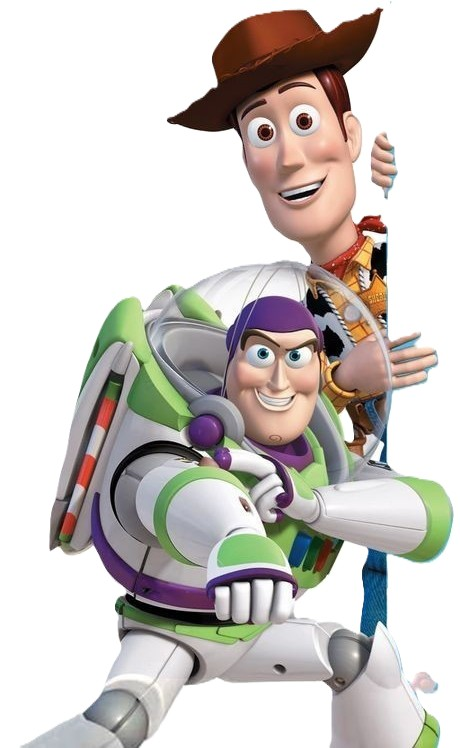
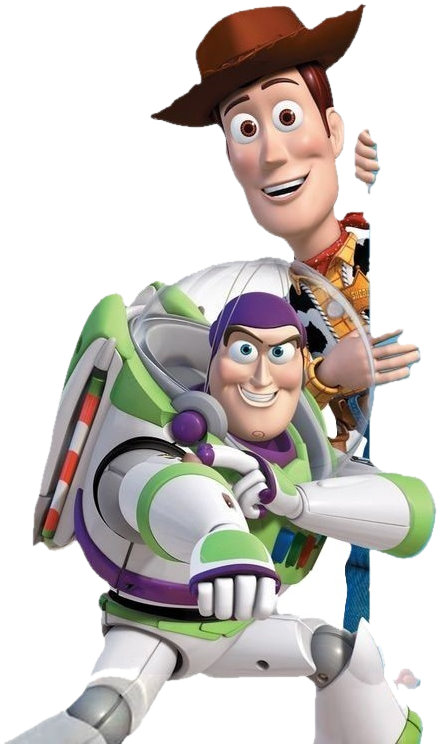
Ajusta artes do convite: Woody e Buzz sem fundo, base sem corte e sem bordao final

diff --git a/convite-animado.html b/convite-animado.html
@@ -22,7 +22,7 @@
   <link rel="preconnect" href="https://fonts.googleapis.com" />
   <link rel="preconnect" href="https://fonts.gstatic.com" crossorigin />
   <link href="https://fonts.googleapis.com/css2?family=Baloo+2:wght@500;600;700;800&family=Nunito:wght@600;700;800;900&display=swap" rel="stylesheet" />
-  <link rel="stylesheet" href="assets/convite-animado.css?v=20261117c" />
+  <link rel="stylesheet" href="assets/convite-animado.css?v=20261118a" />
 </head>
 <body>
   <a class="skip-link" href="#finalInvite">Pular para o convite</a>
@@ -105,56 +105,56 @@
       </section>
 
       <section class="final-invite" id="finalInvite" tabindex="-1" aria-label="Convite do aniversário do Ben">
-        <img class="peek-duo-art" src="assets/convite/woody-buzz-espiando.png?v=20261116" alt="" aria-hidden="true" />
-        <div class="invite-card">
-          <span class="tape tape-left" aria-hidden="true"></span>
-          <span class="tape tape-right" aria-hidden="true"></span>
+        <div class="card-stage">
+          <img class="peek-duo-art" src="assets/convite/woody-buzz-espiando.png?v=20261118a" alt="" aria-hidden="true" />
+          <div class="invite-card">
+            <span class="tape tape-left" aria-hidden="true"></span>
+            <span class="tape tape-right" aria-hidden="true"></span>
 
-          <header class="invite-heading">
-            <div class="ben-story-logo card-logo" role="img" aria-label="Ben Story">
-              <span class="ben-word">BEN</span>
-              <span class="story-word">STORY</span>
+            <header class="invite-heading">
+              <div class="ben-story-logo card-logo" role="img" aria-label="Ben Story">
+                <span class="ben-word">BEN</span>
+                <span class="story-word">STORY</span>
+              </div>
+              <p>Você foi escolhido para esta missão!</p>
+              <h2>
+                <span class="name-blocks" id="animatedNameBlocks" role="img" aria-label="Ben">
+                  <span>B</span><span>E</span><span>N</span>
+                </span>
+                <span class="age-copy" id="animatedAgeCopy">faz <strong id="animatedAge">5</strong> anos!</span>
+              </h2>
+            </header>
+
+            <p class="invite-message">Venha brincar, sorrir e viver uma aventura inesquecível com a gente.</p>
+
+            <div class="event-details">
+              <div id="animatedDate"><span aria-hidden="true">📅</span><strong id="animatedDateText">09 de janeiro de 2027</strong><small id="animatedWeekday">Sábado</small></div>
+              <div id="animatedTime"><span aria-hidden="true">🕕</span><strong id="animatedTimeText">18h</strong><small>Hora da missão</small></div>
+              <div class="location" id="animatedLocation"><span aria-hidden="true">📍</span><strong id="animatedLocationName">Enjoy Kids</strong><small id="animatedLocationDetail">Liv Mall Shopping</small></div>
             </div>
-            <p>Você foi escolhido para esta missão!</p>
-            <h2>
-              <span class="name-blocks" id="animatedNameBlocks" role="img" aria-label="Ben">
-                <span>B</span><span>E</span><span>N</span>
-              </span>
-              <span class="age-copy" id="animatedAgeCopy">faz <strong id="animatedAge">5</strong> anos!</span>
-            </h2>
-          </header>
 
-          <p class="buzz-quote"><span aria-hidden="true">🚀</span> “Ao infinito e além!”</p>
+            <section class="gift-guide" aria-labelledby="giftTitle">
+              <div class="gift-title"><span aria-hidden="true">🎁</span><strong id="giftTitle">Diquinha de presente</strong></div>
+              <div class="gift-options">
+                <span><small>Roupa</small><b>6 anos</b></span>
+                <span><small>Calçado</small><b>27</b></span>
+                <span class="gift-theme"><small>Ele vai amar</small><b>Tudo do universo Toy Story</b></span>
+              </div>
+            </section>
 
-          <p class="invite-message">Venha brincar, sorrir e viver uma aventura inesquecível com a gente.</p>
+            <a class="confirm-button" id="confirmButton" href="convite.html?music=1">
+              <span>Confirmar presença</span>
+              <span aria-hidden="true">→</span>
+            </a>
+            <p class="confirm-note">Clique no botão para encontrar seu nome e responder.</p>
 
-          <div class="event-details">
-            <div id="animatedDate"><span aria-hidden="true">📅</span><strong id="animatedDateText">09 de janeiro de 2027</strong><small id="animatedWeekday">Sábado</small></div>
-            <div id="animatedTime"><span aria-hidden="true">🕕</span><strong id="animatedTimeText">18h</strong><small>Hora da missão</small></div>
-            <div class="location" id="animatedLocation"><span aria-hidden="true">📍</span><strong id="animatedLocationName">Enjoy Kids</strong><small id="animatedLocationDetail">Liv Mall Shopping</small></div>
-          </div>
-
-          <section class="gift-guide" aria-labelledby="giftTitle">
-            <div class="gift-title"><span aria-hidden="true">🎁</span><strong id="giftTitle">Diquinha de presente</strong></div>
-            <div class="gift-options">
-              <span><small>Roupa</small><b>6 anos</b></span>
-              <span><small>Calçado</small><b>27</b></span>
-              <span class="gift-theme"><small>Ele vai amar</small><b>Tudo do universo Toy Story</b></span>
+            <div class="base-cast-art" aria-hidden="true">
+              <img src="assets/convite/personagens-base.png?v=20261118a" alt="" />
             </div>
-          </section>
-
-          <a class="confirm-button" id="confirmButton" href="convite.html?music=1">
-            <span>Confirmar presença</span>
-            <span aria-hidden="true">→</span>
-          </a>
-          <p class="confirm-note">Clique no botão para encontrar seu nome e responder.</p>
-
-          <div class="base-cast-art" aria-hidden="true">
-            <img src="assets/convite/personagens-base.png?v=20261116" alt="" />
+            <span class="card-star star-a" aria-hidden="true">★</span>
+            <span class="card-star star-b" aria-hidden="true">★</span>
+            <span class="card-star star-c" aria-hidden="true">✦</span>
           </div>
-          <span class="card-star star-a" aria-hidden="true">★</span>
-          <span class="card-star star-b" aria-hidden="true">★</span>
-          <span class="card-star star-c" aria-hidden="true">✦</span>
         </div>
       </section>
     </main>

diff --git a/assets/convite-animado.css b/assets/convite-animado.css
@@ -394,11 +394,17 @@ button { color: inherit; }
 .is-final .final-invite { opacity: 1; visibility: visible; pointer-events: auto; }
 .is-final .envelope-scene { opacity: 0; }
 
-.invite-card {
+.card-stage {
   position: relative;
   width: min(100%, 660px);
+  --base-art-space: clamp(130px, calc(41.5vw + 8px), 290px);
+}
+
+.invite-card {
+  position: relative;
+  width: 100%;
   min-height: 910px;
-  padding: clamp(24px, 5vh, 45px) clamp(21px, 5vw, 48px) 235px;
+  padding: clamp(24px, 5vh, 45px) clamp(21px, 5vw, 48px) var(--base-art-space);
   border: 3px solid rgba(255,255,255,.9);
   border-radius: 12px;
   text-align: center;
@@ -415,13 +421,13 @@ button { color: inherit; }
 .peek-duo-art {
   position: absolute;
   z-index: 3;
-  top: 150px;
-  right: calc(50% + 252px);
+  top: auto;
+  right: 100%;
+  bottom: calc(var(--base-art-space) - 4px);
   left: auto;
-  width: 270px;
+  width: min(270px, calc(50vw - 340px));
   height: auto;
   opacity: 0;
-  mix-blend-mode: multiply;
   filter: drop-shadow(0 16px 12px rgba(27, 73, 100, .2));
   transform: translateX(-80px);
   pointer-events: none;
@@ -435,20 +441,13 @@ button { color: inherit; }
   left: 0;
   right: 0;
   bottom: 0;
-  height: clamp(132px, 33.4vw, 225px);
-  overflow: hidden;
   pointer-events: none;
 }
 
 .base-cast-art img {
-  position: absolute;
-  left: 0;
-  bottom: 0;
-  top: auto;
+  display: block;
   width: 100%;
   height: auto;
-  mix-blend-mode: multiply;
-  transform: none;
   filter: drop-shadow(0 -9px 7px rgba(42, 65, 76, .12));
 }
 
@@ -476,25 +475,6 @@ button { color: inherit; }
 .age-copy strong { color: #e94741; font-size: 1.28em; }
 
 .invite-message { max-width: 490px; margin: 20px auto 18px; color: #4a6680; font-size: clamp(.9rem, 2.7vw, 1.06rem); font-weight: 700; line-height: 1.38; }
-
-.buzz-quote {
-  position: relative;
-  z-index: 4;
-  display: inline-flex;
-  align-items: center;
-  gap: 8px;
-  margin: 14px auto 0;
-  padding: 6px 16px;
-  border: 2px dashed rgba(30, 91, 135, .3);
-  border-radius: 999px;
-  color: #1e5b87;
-  background: #fff3b8;
-  font-family: "Baloo 2", sans-serif;
-  font-size: clamp(1rem, 3.2vw, 1.35rem);
-  font-weight: 800;
-  transform: rotate(-1.2deg);
-  box-shadow: 0 4px 0 rgba(30, 91, 135, .12);
-}
 
 .event-details { display: grid; grid-template-columns: 1fr 1fr; gap: 8px; max-width: 510px; margin: 0 auto 17px; }
 .event-details div { display: grid; grid-template-columns: auto 1fr; align-items: center; column-gap: 9px; padding: 10px 13px; border: 2px solid rgba(55,137,213,.13); border-radius: 12px; text-align: left; background: rgba(238,248,255,.86); }
@@ -572,6 +552,10 @@ button { color: inherit; }
 @keyframes peek-arrives { to { opacity: .98; transform: translateX(0); } }
 @keyframes twinkle { 50% { opacity: .35; transform: scale(.72) rotate(30deg); } }
 
+@media (max-width: 1100px) and (min-width: 681px) {
+  .peek-duo-art { top: 96px; right: auto; bottom: auto; left: 6px; width: clamp(132px, 20vw, 190px); }
+}
+
 @media (max-width: 680px) {
   .window { right: -5%; width: 150px; height: 175px; border-width: 8px; }
   .shelf { left: -5%; width: 175px; transform: scale(.75); }
@@ -582,10 +566,10 @@ button { color: inherit; }
   .orbit-potato { right: 4%; top: 27%; }
   .skip-animation { padding: 8px 10px; font-size: .68rem; }
   .round-control { width: 38px; height: 38px; }
-  .invite-card { min-height: 940px; padding: 27px 17px clamp(150px, 36vw, 240px); }
+  .invite-card { min-height: 940px; padding: 27px 17px var(--base-art-space); }
   .invite-message { margin-top: 16px; }
   .card-logo { font-size: clamp(4.1rem, 21vw, 5.5rem); }
-  .peek-duo-art { top: 72px; left: -10px; right: auto; width: 96px; opacity: 0; }
+  .peek-duo-art { top: 72px; right: auto; bottom: auto; left: -12px; width: 108px; opacity: 0; }
   .gift-options { grid-template-columns: 1fr 1fr; }
   .gift-options .gift-theme { grid-column: 1 / -1; }
 }
